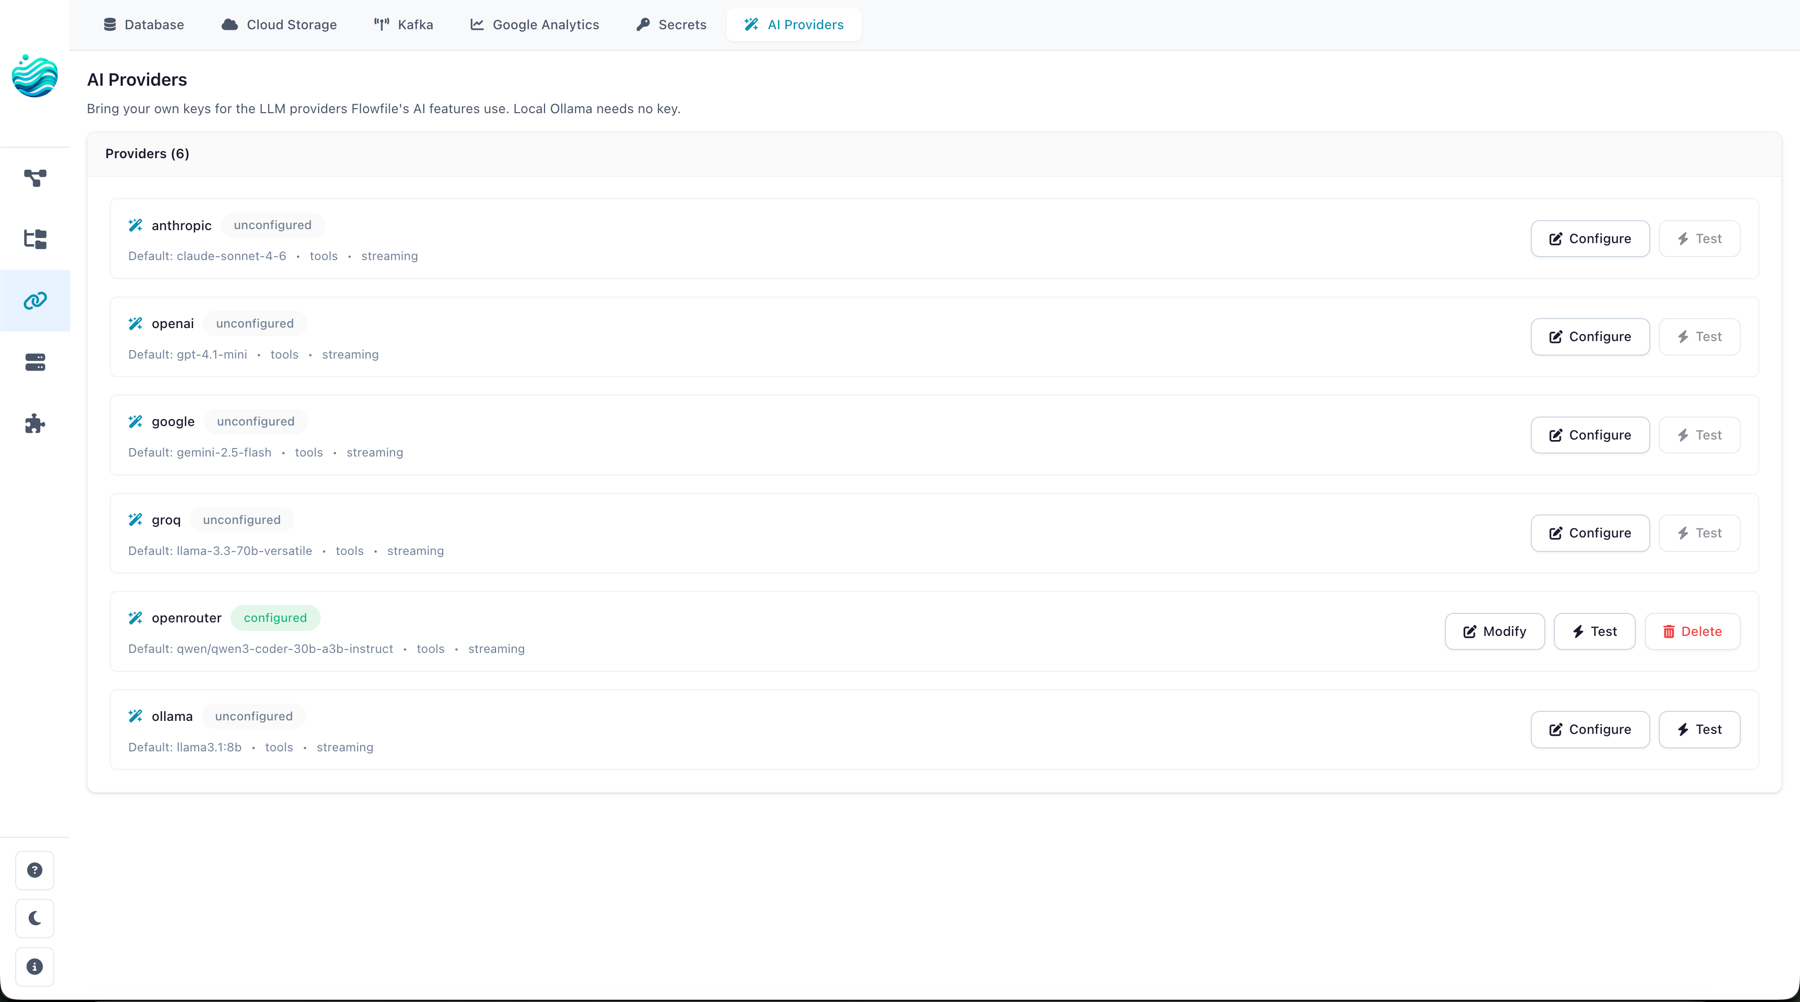
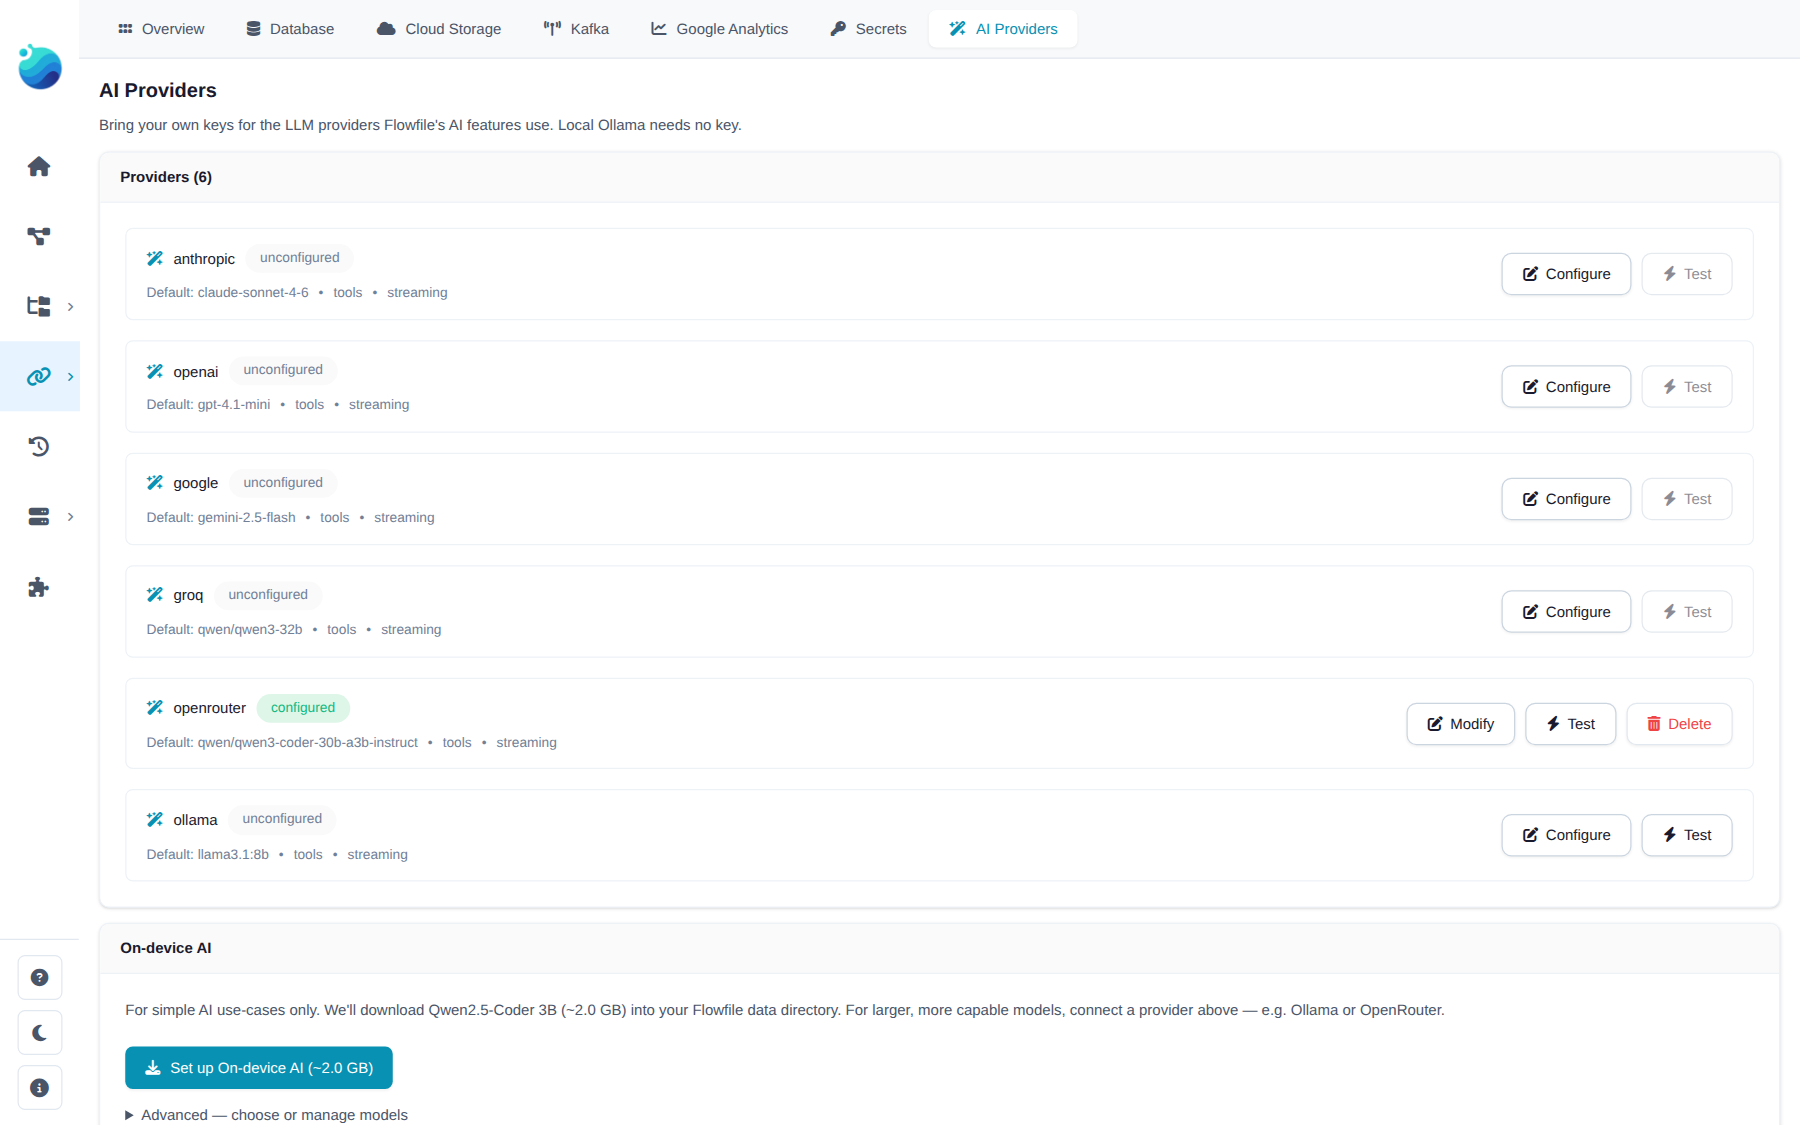
Document the built-in on-device AI model and refresh provider setup screenshots (#687)
* Document the built-in on-device AI model and refresh provider setup screenshots

* Tighten provider setup intro

* Strip marketing filler from AI provider docs

diff --git a/docs/ai/providers.md b/docs/ai/providers.md
@@ -1,6 +1,6 @@
 # Provider Setup (BYOK)
 
-The [AI Assistant](index.md) runs against one of six LLM providers — pick the one that fits your budget, latency needs, or compliance posture: Anthropic, OpenAI, Google, Groq, OpenRouter, and a local Ollama server. You bring your own API key; Flowfile encrypts it at rest with Fernet (using `FLOWFILE_MASTER_KEY` / `master_key.txt`), the same scheme that protects your other secrets. For air-gapped work, Ollama lets the entire AI layer run on your laptop with no traffic leaving your machine.
+The [AI Assistant](index.md) runs against a built-in [on-device model](#on-device-model-no-key-required) or one of six LLM providers: Anthropic, OpenAI, Google, Groq, OpenRouter, and a local Ollama server. For the hosted providers you bring your own API key; Flowfile encrypts it at rest with Fernet (using `FLOWFILE_MASTER_KEY` / `master_key.txt`), the same scheme that protects your other secrets. Two options work offline: the on-device model (no key or account) and Ollama (a server you run).
 
 !!! info "Not in Flowfile Lite"
     The AI Assistant (and BYOK provider setup) requires the full desktop/server build, not the browser-only [Flowfile Lite](../users/deployment/lite.md) edition.
@@ -13,10 +13,10 @@ Default models below reflect the provider classes as of 2026-07.
 
 | Provider | Default model | Tools | Streaming | Key env var | Notes |
 |----------|---------------|:-----:|:---------:|-------------|-------|
-| **Anthropic** | `claude-sonnet-4-6` | ✓ | ✓ | `ANTHROPIC_API_KEY` | Best balance of quality and tool-use reliability. Haiku 4.5 is the default for fast surfaces (Cmd+K, ghost-node, autocomplete); Opus 4.7 for `agent_complex`. |
+| **Anthropic** | `claude-sonnet-4-6` | ✓ | ✓ | `ANTHROPIC_API_KEY` | Haiku 4.5 is the default for fast surfaces (Cmd+K, ghost-node, autocomplete); Opus 4.7 for `agent_complex`. |
 | **OpenAI** | `gpt-4.1-mini` | ✓ | ✓ | `OPENAI_API_KEY` | Mini tier for the cheap surfaces; full `gpt-4.1` for `explain` / `agent_complex` / `docgen`. Strict structured outputs supported via litellm. |
-| **Google (Gemini)** | `gemini-2.5-flash` | ✓ | ✓ | `GEMINI_API_KEY` or `GOOGLE_API_KEY` | Generous free tier (~250–1000 req/day, no card). Pro for `agent_complex`. |
-| **Groq** | `qwen/qwen3-32b` | ✓ | ✓ | `GROQ_API_KEY` | Very fast inference (~30 RPM free tier); good fit for low-TTFB surfaces (Cmd+K, ghost-node). |
+| **Google (Gemini)** | `gemini-2.5-flash` | ✓ | ✓ | `GEMINI_API_KEY` or `GOOGLE_API_KEY` | Free tier ~250–1000 req/day, no card required. Pro for `agent_complex`. |
+| **Groq** | `qwen/qwen3-32b` | ✓ | ✓ | `GROQ_API_KEY` | Fast inference; free tier is ~30 RPM. |
 | **OpenRouter** | `qwen/qwen3-coder-30b-a3b-instruct` | ✓ | ✓ | `OPENROUTER_API_KEY` | One key routing to many hosted models. The `agent_staged` default is `meta-llama/llama-3.3-70b-instruct` (free tier). |
 | **Ollama** | `llama3.1:8b` | ✓ (model-dependent) | ✓ | *(none — local)* | Self-hosted; talks to your local Ollama server (default `http://localhost:11434`). Tool-use works on Llama 3.1+ and most newer instruct models. |
 
@@ -29,7 +29,7 @@ The "Tools" column means the provider can return structured tool-call arguments 
 
 ## Configuring keys in the UI
 
-The recommended path is the in-app settings panel:
+In the app:
 
 1. Open **Settings → AI Providers**.
 2. Pick a provider from the list. The panel shows class-level metadata (default model, supports tools, supports streaming) plus your current credential status: **Configured** (key saved), **Env fallback** (no key saved but a recognised env var is set on the server), or **Unconfigured**.
@@ -38,8 +38,7 @@ The recommended path is the in-app settings panel:
 
 ![AI Providers list with status chips](../assets/images/ai/byok_provider_list.png)
 
-!!! note "📸 Screenshot pending — `byok_provider_detail.png`"
-    Detail / Configure form for a single provider (e.g. Anthropic) — API key field (masked), API base field, default model dropdown, optional curated models list, and the Save / Test / Delete buttons.
+![Configure form for a single provider — masked API key field, optional default model, curated models list, and API base URL](../assets/images/ai/byok_provider_detail.png)
 
 To remove a key, click **Delete**. The credential row and the underlying encrypted secret are removed atomically.
 
@@ -62,12 +61,12 @@ If no credential row exists for a user, Flowfile falls back to the standard prov
 
 ## Choosing models per surface
 
-Each AI feature is a *surface* (`chat`, `explain`, `agent_staged`, `agent_complex`, `cmd_k`, `ghost_node`, `settings_autocomplete`, `lineage`, `docgen`, `intent_classifier`, `cron`). Each provider class ships per-surface defaults — Haiku for fast paths, Sonnet for thinking paths, etc. — so you usually don't need to override anything.
+Each AI feature is a *surface* (`explain`, `agent_staged`, `agent_live`, `agent_complex`, `cmd_k`, `ghost_node`, `settings_autocomplete`, `lineage`, `docgen`, `intent_classifier`, `cron`; the chat drawer has no surface of its own and falls back to `explain`). Each provider class ships per-surface defaults — Haiku for fast paths, Sonnet for thinking paths, etc. — so you usually don't need to override anything.
 
 When you do want to override:
 
-1. **Per-credential default**. In the BYOK panel, set *Default model* on the provider row. This wins over the class-level default for every surface.
-2. **Curated model list**. Some providers (notably OpenRouter) let you pin a *list* of models you've opted into. Flowfile will use the surface's preferred model **if it's in your curated list**; otherwise it falls back to the first model in the list. Useful when you want to limit yourself to free-tier models without losing per-surface intelligence.
+1. **Per-credential default**. In the BYOK panel, set *Default model* on the provider row. This wins over the class-level default on every surface except the Agent, which prefers the provider class' own tool-capable model where one is defined (see below).
+2. **Curated model list**. Some providers (notably OpenRouter) let you pin a *list* of models you've opted into. Flowfile will use the surface's preferred model **if it's in your curated list**; otherwise it falls back to the first model in the list. Useful when you want to limit yourself to free-tier models without losing the per-surface defaults.
 3. **Per-request override**. The API accepts an explicit `model=...` per call. This always wins.
 
 The full resolution order, in priority:
@@ -79,7 +78,7 @@ The full resolution order, in priority:
 5. Provider class' `surface_models[surface]`.
 6. Provider class' `default_model`.
 
-A note on the Agent surface: it requires a tool-capable model. If you pin a curated list that contains only models without tool support, agent calls will return `422` with a clear message; switch back to a tool-capable model.
+A note on the Agent surface: it requires a tool-capable model. Unless you pass an explicit `model=`, it routes to the provider class' `surface_models` entry for the agent surface where the class defines one, ahead of your credential default and curated list. A provider that cannot tool-call at all — the [on-device model](#on-device-model-no-key-required) — is refused with a `422`.
 
 ---
 
@@ -89,11 +88,40 @@ Cap per-provider request volume via env vars on the host: `FLOWFILE_AI_<PROVIDER
 
 ---
 
+## On-device model (no key required)
+
+Flowfile can run a small model on the machine itself. It downloads a llama.cpp `llama-server` build plus a quantized model into the Flowfile data directory and drives it over its OpenAI-compatible API; it needs no key or account and works offline once installed. The provider id is `local`; it is deliberately kept out of the BYOK provider set above, so it never appears in the credential list and has no `/ai/providers/*` routes. The server boots lazily on the first AI call.
+
+Set it up in **Settings → AI Providers → On-device AI**:
+
+1. With nothing installed, the card offers a single **Set up On-device AI** button (labelled with the download size) that fetches the recommended model. Nothing downloads until you click it.
+2. Once installed, the card shows the active model with **Start** / **Stop**.
+3. **Advanced — choose or manage models** opens the full catalog: install another size, switch the active one with **Use**, or delete one.
+
+![On-device AI card in Settings → AI Providers before setup — the one-click Set up On-device AI button and the collapsed Advanced section](../assets/images/ai/on_device_ai_setup.png)
+
+The catalog is three q4_k_m GGUF builds, pulled from Hugging Face on demand:
+
+| Model | Notes |
+|-------|-------|
+| **Qwen2.5-Coder 1.5B** | ~1.1 GB download. For low-RAM machines. |
+| **Qwen2.5-Coder 3B** | ~2.0 GB download. The default. |
+| **Qwen2.5 7B Instruct** | ~4.4 GB download. Needs ~6 GB free RAM; slow on CPU. |
+
+Prebuilt runtimes exist for macOS, Linux, and Windows on x64 and arm64; elsewhere the card shows "Not available on this platform".
+
+The on-device model streams but does not do tool calls, so it backs the read-only and text surfaces — Chat, Fix With AI, Generate Documentation, Lineage Q&A, the inline ✨ actions — plus one-shot flow generation. The Agent rejects it with a `422`. For heavier work use a provider such as Ollama or OpenRouter.
+
+!!! note "Running Flowfile in Docker"
+    The bundled `llama-server` needs `libgomp1` in the image. If it exits on startup, see [Troubleshooting](#troubleshooting).
+
+---
+
 ## Self-hosted (Ollama) setup
 
-Ollama is the offline path. Quick start on macOS / Linux:
+Ollama is the other offline path — a server you install and manage yourself. Quick start on macOS / Linux:
 
-1. Install and start Ollama (see [ollama.com](https://ollama.com) — link kept off this page so it doesn't rot).
+1. Install and start Ollama (see [ollama.com](https://ollama.com)).
 2. Pull a tool-capable instruct model:
 
     ```bash
@@ -118,7 +146,7 @@ Tool-call quality varies by model. Llama 3.1+ instruct models do tool calls corr
 The feature flag is off. AI is on by default — this only happens if someone has explicitly set `FEATURE_FLAG_AI=false` in the env, or toggled it off at runtime via `POST /system/feature_flags/ai`. Re-enable by unsetting the env var (or setting it to `true`) and restarting, or toggle it back on via the admin endpoint.
 
 **`422 Unprocessable Entity` when starting an Agent session.**
-The picked model doesn't support tools. Check the *Tools* column in the [provider table](#supported-providers). Either switch models on the request or update your credential's `default_model`.
+The picked provider can't do tool calls — the [on-device model](#on-device-model-no-key-required) never can. Check the *Tools* column in the [provider table](#supported-providers) and switch to a tool-capable provider, or pass an explicit tool-capable `model=` on the request.
 
 **`404` from `POST /ai/providers/{name}`.**
 Provider name typo. The supported names are exactly: `anthropic`, `openai`, `google`, `groq`, `openrouter`, `ollama` (lowercase, no dashes).

diff --git a/docs/ai/index.md b/docs/ai/index.md
@@ -14,7 +14,7 @@ How a change lands depends on the surface:
 - **Inline ✨ actions** skip the diff layer: *Explain* is read-only, *Add description* writes straight to the node's `description` once streaming finishes, and *Regenerate code* shows the new snippet for manual copy-paste.
 - **Read-only surfaces** (Chat, Lineage Q&A, Fix With AI, Generate Documentation) never propose graph mutations.
 
-No hosted Flowfile model — bring your own key (Anthropic, OpenAI, Google, Groq, OpenRouter, or a local Ollama). See [Provider Setup](providers.md).
+No hosted Flowfile service — bring your own key (Anthropic, OpenAI, Google, Groq, OpenRouter, or a local Ollama), or run the built-in [on-device model](providers.md#on-device-model-no-key-required) without a key. See [Provider Setup](providers.md).
 
 ---
 
